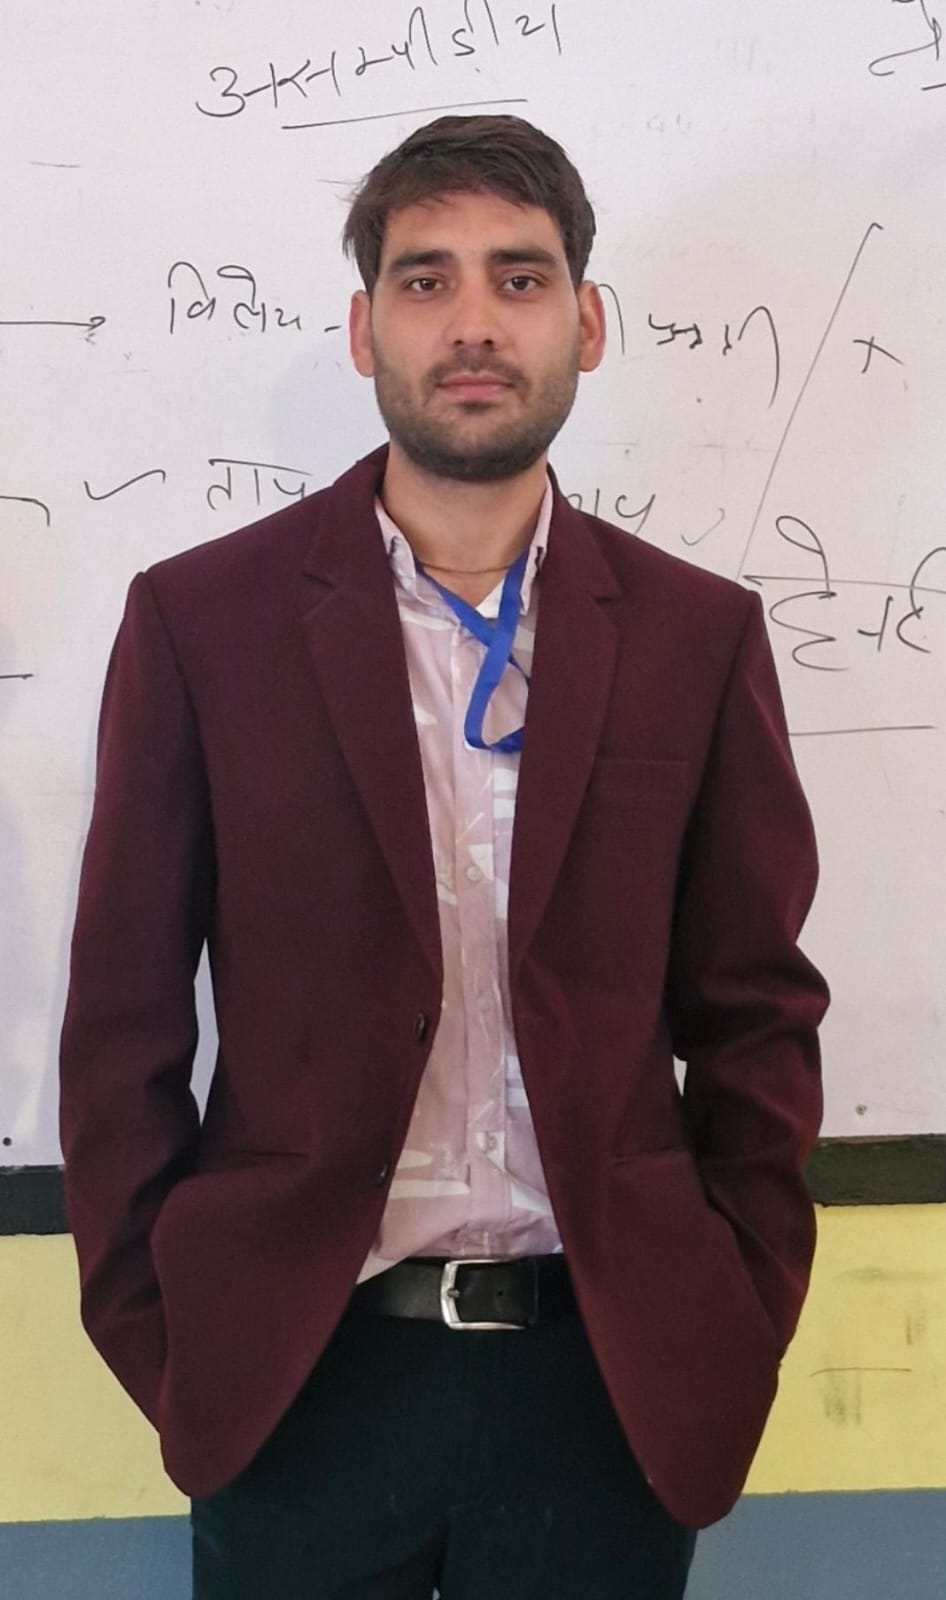
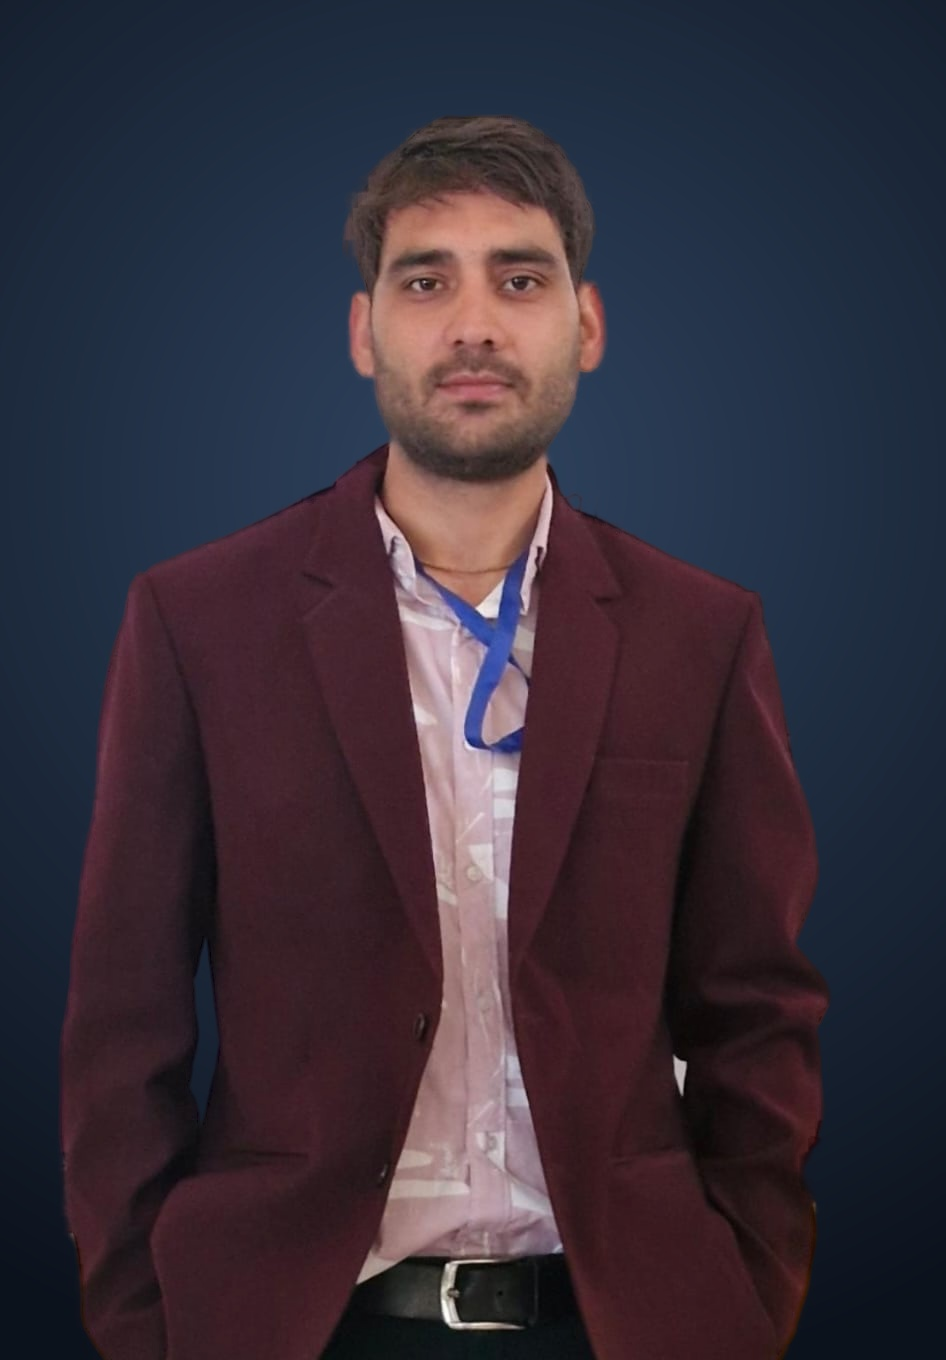
feat: keep 100% original face and body with professional studio background cutout

diff --git a/scripts/remove_bg_and_composite.py b/scripts/remove_bg_and_composite.py
@@ -1,0 +1,63 @@
+import os
+import sys
+from PIL import Image, ImageFilter, ImageOps
+import numpy as np
+
+def create_studio_composite():
+    input_path = r"d:\Work\Teacher_Website\image\WhatsApp Image 2026-08-17 at 10.37.15 PM.jpeg"
+    output_path1 = r"d:\Work\Teacher_Website\public\images\ajay-choudhary.jpg"
+    output_path2 = r"d:\Work\Teacher_Website\public\images\ajay-profile.jpg"
+    
+    print(f"Loading original image: {input_path}")
+    orig_img = Image.open(input_path).convert("RGBA")
+    
+    from rembg import remove, new_session
+    print("Extracting exact foreground subject using u2net session...")
+    # Use u2net for crisp edge delineation
+    session = new_session("u2net")
+    foreground = remove(orig_img, session=session, alpha_matting=True, alpha_matting_foreground_threshold=240, alpha_matting_background_threshold=10, alpha_matting_erode_size=10)
+
+    w, h = foreground.size
+    print(f"Foreground dimensions: {w}x{h}")
+    
+    # 1. Create a modern educational/academic studio background
+    # Deep midnight navy to slate gradient with soft overhead spotlight
+    bg_np = np.zeros((h, w, 4), dtype=np.uint8)
+    
+    cx, cy = w / 2.0, h * 0.30
+    max_radius = np.sqrt((w/2)**2 + (h/2)**2)
+    
+    y_coords, x_coords = np.ogrid[:h, :w]
+    dist = np.sqrt((x_coords - cx)**2 + (y_coords - cy)**2)
+    norm_dist = np.clip(dist / max_radius, 0, 1)
+    
+    # Elegant Studio Palette: Warm Slate Cyan center (45, 65, 95) -> Deep Navy (10, 16, 26)
+    r = (48 * (1 - norm_dist) + 12 * norm_dist).astype(np.uint8)
+    g = (68 * (1 - norm_dist) + 18 * norm_dist).astype(np.uint8)
+    b = (96 * (1 - norm_dist) + 28 * norm_dist).astype(np.uint8)
+    a = np.full((h, w), 255, dtype=np.uint8)
+    
+    bg_np[:, :, 0] = r
+    bg_np[:, :, 1] = g
+    bg_np[:, :, 2] = b
+    bg_np[:, :, 3] = a
+    
+    studio_bg = Image.fromarray(bg_np, "RGBA")
+    studio_bg = studio_bg.filter(ImageFilter.GaussianBlur(radius=8))
+    
+    # 2. Composite his 100% genuine cutout
+    composite = Image.alpha_composite(studio_bg, foreground)
+    
+    # 3. Crop to professional executive portrait framing (head to mid-chest/torso)
+    crop_box = (0, 0, w, int(h * 0.85))
+    final_headshot = composite.crop(crop_box)
+    
+    # Save in RGB
+    final_rgb = final_headshot.convert("RGB")
+    final_rgb.save(output_path1, quality=95, optimize=True)
+    final_rgb.save(output_path2, quality=95, optimize=True)
+    
+    print("SUCCESS: 100% original face & body composited onto studio background!")
+
+if __name__ == "__main__":
+    create_studio_composite()
